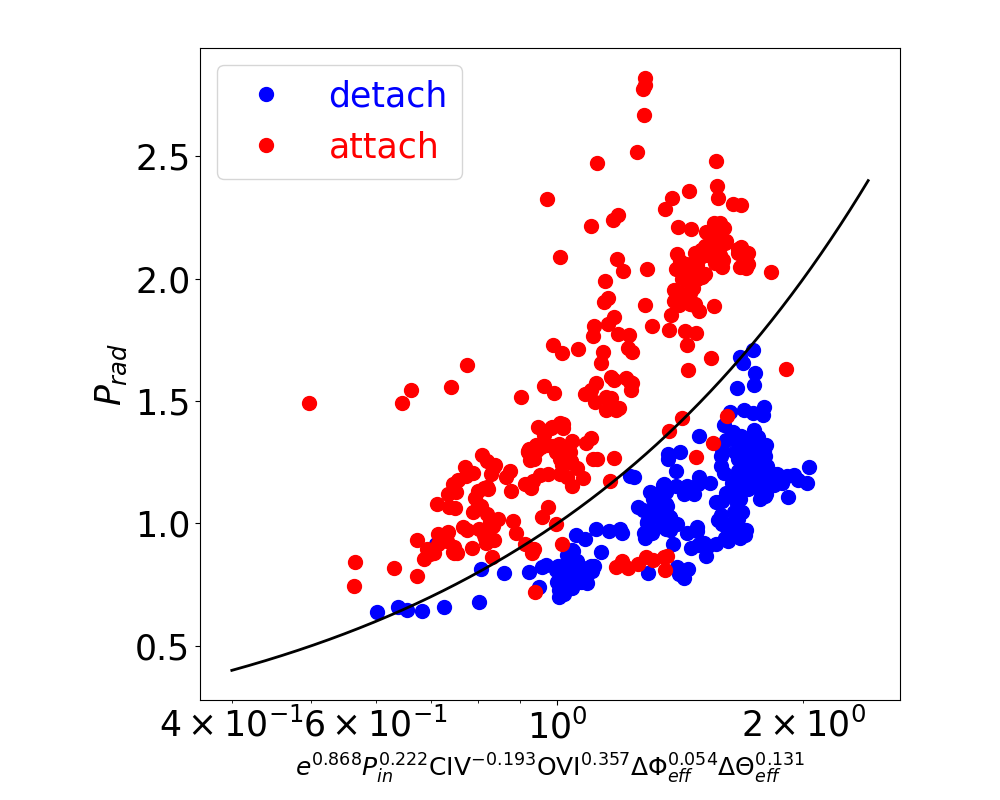
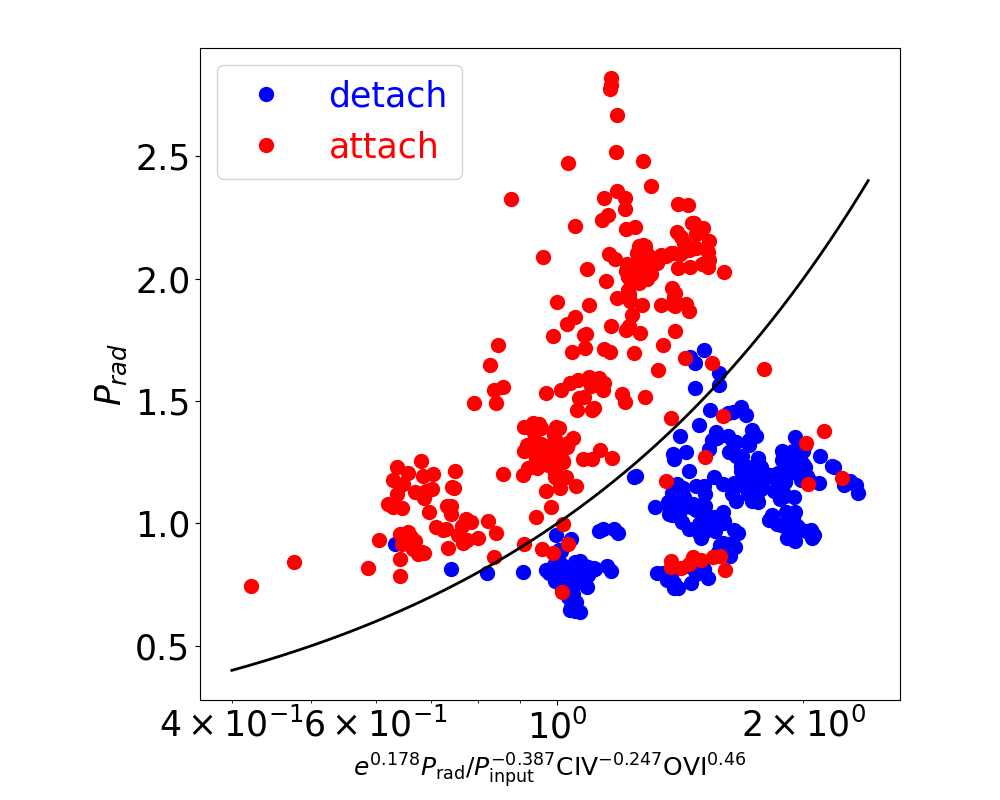
made gitignore and changed  pr9_5 for making graph with 4 variables

diff --git a/pr9_5.py b/pr9_5.py
@@ -7,7 +7,7 @@ from numpy.core.function_base import linspace
 date = '20240812'
 datapath = './results/'+date+'/dataset.csv'
 datapath2 = './results/'+date+'/label.csv'
-datapath3 = './results/'+date+'/result6.tsv'
+datapath3 = './results/'+date+'/result4.tsv'
 datapath4 = './results/'+date+'/parameter.csv'
 datapath5 = './results/'+date+'/dataset_minmax.csv'
 
@@ -118,7 +118,7 @@ np.where(results_header == 'F1score')[0][0]
 
 #カエルのここ
 # 使いたいものの列番号から1を引いた値
-shotdata_f1max = svm_result_data[1386]
+shotdata_f1max = svm_result_data[515]
 target_number = 3
 
 weight_before = [float(s) for s in shotdata_f1max[1:len(use_parameter_list)+1]]
@@ -228,6 +228,8 @@ for i in func_parameter_list_int:
         xlavel = xlavel + '$\Delta\Phi_{eff}^{%s}$' % (round(weight_after[i]*-1/weight_after[target_number],3))
     elif i == 12:
         xlavel = xlavel + '$\Delta\Theta_{eff}^{%s}$' % (round(weight_after[i]*-1/weight_after[target_number],3))
+    elif use_parameter_list[i] == 'Prad/Pinput':
+        xlavel = xlavel + '$P_\mathrm{rad}/P_\mathrm{input}^{%s}$' % (round(weight_after[i]*-1/weight_after[target_number],3))
     else:
         xlavel = xlavel + '$\mathrm{%s}^{%s}$' % (use_parameter_list[i],round(weight_after[i]*-1/weight_after[target_number],3))
 
@@ -236,6 +238,19 @@ for i in range(len(target_parameter_list1)):
     if target_parameter_list1[i] >= 2:
         print(f"Index: {i}, Value: {target_parameter_list1[i]}, Func Value: {func_func1_list1[i]}")
 
+
+# 黒い線よりも下にある赤い点（'attach'状態）のデータポイントを見つける
+below_line_indices = np.where((label == -1) & (target_parameter_row_list < func_func1_list))[0]
+
+print("黒い線よりも下にある'attach'状態のデータポイント:")
+for idx in below_line_indices:
+    print(f"インデックス: {idx}")
+    print(f"  x値 (func_func1): {func_func1_list[idx]}")
+    print(f"  y値 (target_parameter): {target_parameter_row_list[idx]}")
+    print(f"  元のデータ: {data[idx]}")
+    print("---")
+
+print(f"該当するデータポイントの総数: {len(below_line_indices)}")
 
 plt.savefig('./hist&sccaterpng/sccater_rmp_'+str(date)+'target'+str(target_number)+'.png')
 plt.show()
